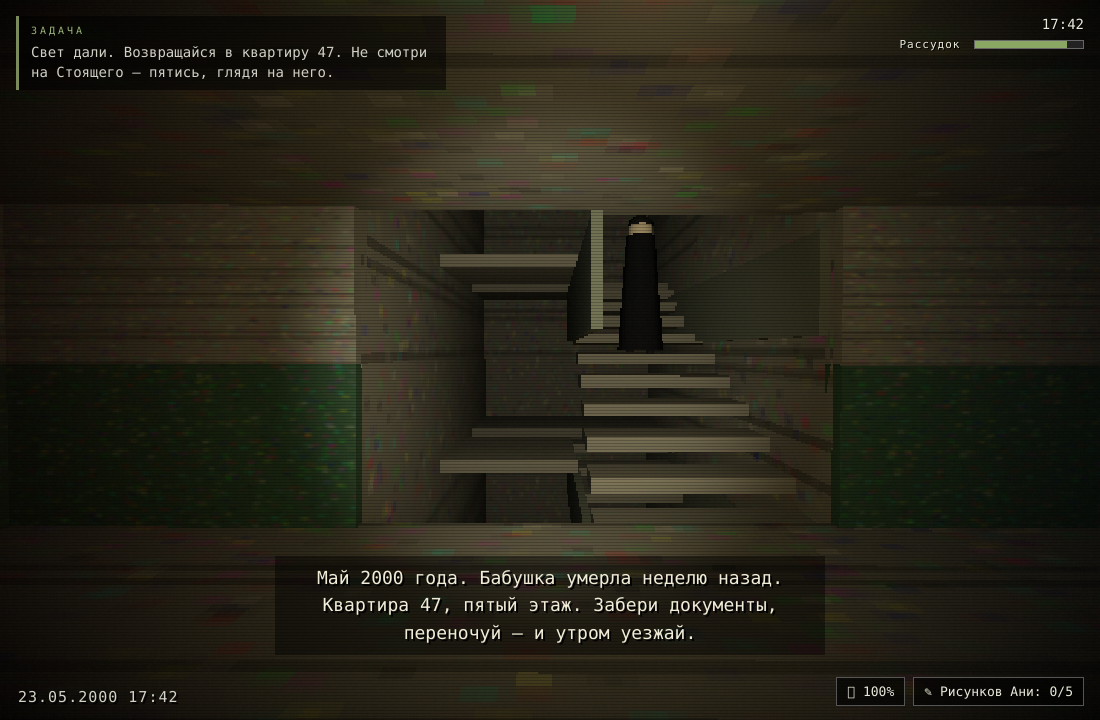
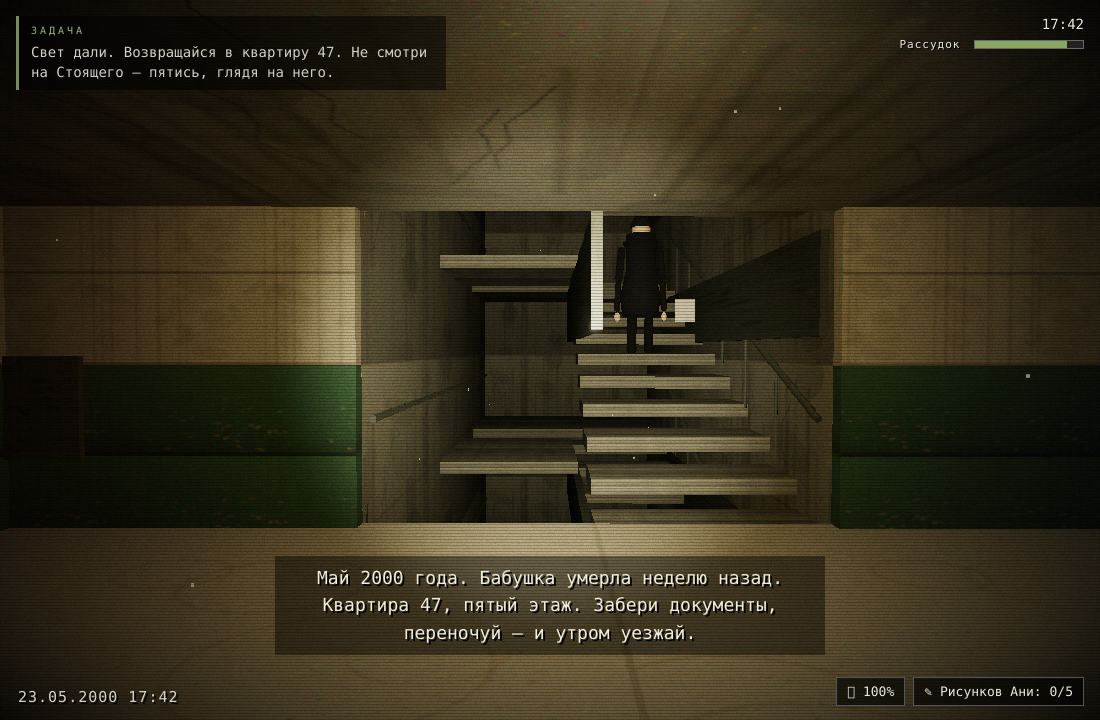
Графика 2.0: тени, пост-обработка, PBR-текстуры, детальные модели мебели и сущностей

diff --git a/src/main.js b/src/main.js
@@ -1,4 +1,9 @@
 import * as THREE from 'three';
+import { EffectComposer } from 'three/addons/postprocessing/EffectComposer.js';
+import { RenderPass } from 'three/addons/postprocessing/RenderPass.js';
+import { UnrealBloomPass } from 'three/addons/postprocessing/UnrealBloomPass.js';
+import { FilmPass } from 'three/addons/postprocessing/FilmPass.js';
+import { OutputPass } from 'three/addons/postprocessing/OutputPass.js';
 
 // ================= DOM =================
 const $=id=>document.getElementById(id);
@@ -30,40 +35,110 @@ $('note-close').onclick=()=>{ $('note-modal').classList.add('hidden'); canvas.re
 // ================= ТЕКСТУРЫ (canvas, стиль PS1) =================
 function makeTex(size,fn,rep=1){ const c=document.createElement('canvas'); c.width=c.height=size; fn(c.getContext('2d'),size); const t=new THREE.CanvasTexture(c); t.wrapS=t.wrapT=THREE.RepeatWrapping; t.repeat.set(rep,rep); t.magFilter=THREE.NearestFilter; t.colorSpace=THREE.SRGBColorSpace; return t; }
 function noise(ctx,s,n=900,a=0.16){ for(let i=0;i<n;i++){ ctx.fillStyle=`rgba(${Math.random()>0.5?255:0},${Math.random()>0.5?255:0},${Math.random()>0.5?230:10},${Math.random()*a})`; ctx.fillRect(Math.random()*s,Math.random()*s,2,2);} }
-const texConcrete=makeTex(128,(x,s)=>{ x.fillStyle='#6d6d66'; x.fillRect(0,0,s,s); noise(x,s,1400,.2); x.fillStyle='rgba(0,0,0,.25)'; for(let i=0;i<8;i++)x.fillRect(0,Math.random()*s,s,2); });
-const texGreen=makeTex(128,(x,s)=>{ x.fillStyle='#2e4a38'; x.fillRect(0,0,s,s); noise(x,s,1200,.22); x.fillStyle='rgba(0,0,0,.3)'; x.fillRect(0,s-8,s,8); });
-const texWallpaper=makeTex(128,(x,s)=>{ x.fillStyle='#8a7663'; x.fillRect(0,0,s,s); x.fillStyle='rgba(140,60,60,.35)'; for(let i=0;i<s;i+=16)for(let j=0;j<s;j+=16){ x.beginPath(); x.arc(i+8,j+8,3,0,7); x.fill(); } noise(x,s,500,.12); });
-const texCarpet=makeTex(128,(x,s)=>{ x.fillStyle='#5e1f1c'; x.fillRect(0,0,s,s); x.strokeStyle='#a8834a'; x.lineWidth=3; x.strokeRect(10,10,s-20,s-20); x.strokeStyle='rgba(200,150,80,.5)'; x.beginPath(); x.arc(s/2,s/2,24,0,7); x.stroke(); noise(x,s,600,.15); },3);
-const texFloor=makeTex(128,(x,s)=>{ x.fillStyle='#4a3826'; x.fillRect(0,0,s,s); x.fillStyle='rgba(0,0,0,.35)'; for(let i=0;i<s;i+=32)x.fillRect(0,i,s,2); noise(x,s,700,.15); },3);
-const texDoor=makeTex(128,(x,s)=>{ x.fillStyle='#4c3421'; x.fillRect(0,0,s,s); x.strokeStyle='rgba(0,0,0,.5)'; x.lineWidth=4; x.strokeRect(14,14,s-28,s-28); x.strokeRect(24,24,s-48,s-48); noise(x,s,500,.15); });
+const texConcrete=makeTex(512,(x,s)=>{ const g=x.createLinearGradient(0,0,0,s); g.addColorStop(0,'#7a7a72'); g.addColorStop(1,'#5d5d57'); x.fillStyle=g; x.fillRect(0,0,s,s); noise(x,s,9000,.14);
+  // потёки и пятна сырости
+  for(let i=0;i<26;i++){ const px=Math.random()*s; const gr=x.createLinearGradient(px,0,px+14,0); gr.addColorStop(0,'rgba(40,40,36,0)'); gr.addColorStop(.5,`rgba(40,40,36,${.08+Math.random()*.16})`); gr.addColorStop(1,'rgba(40,40,36,0)'); x.fillStyle=gr; x.fillRect(px,Math.random()*s*.3,14,s*(.4+Math.random()*.6)); }
+  for(let i=0;i<14;i++){ x.fillStyle=`rgba(30,32,28,${.05+Math.random()*.1})`; x.beginPath(); x.ellipse(Math.random()*s,Math.random()*s,20+Math.random()*60,10+Math.random()*40,Math.random()*3,0,7); x.fill(); }
+  // трещины
+  x.strokeStyle='rgba(25,25,22,.5)'; x.lineWidth=1.4; for(let i=0;i<7;i++){ x.beginPath(); let px=Math.random()*s,py=Math.random()*s*.5; x.moveTo(px,py); for(let j=0;j<6;j++){ px+=(Math.random()-.5)*36; py+=18+Math.random()*26; x.lineTo(px,py);} x.stroke(); }
+  // швы опалубки
+  x.fillStyle='rgba(0,0,0,.18)'; x.fillRect(0,s*.48,s,3); x.fillRect(s*.5,0,3,s*.48); },2);
+const texPlaster=makeTex(512,(x,s)=>{ x.fillStyle='#8f8a7c'; x.fillRect(0,0,s,s); noise(x,s,8000,.12);
+  for(let i=0;i<20;i++){ x.fillStyle=`rgba(96,90,74,${.06+Math.random()*.12})`; x.beginPath(); x.ellipse(Math.random()*s,Math.random()*s,16+Math.random()*70,10+Math.random()*44,Math.random()*3,0,7); x.fill(); }
+  for(let i=0;i<10;i++){ const px=Math.random()*s; x.fillStyle=`rgba(70,66,56,${.1+Math.random()*.12})`; x.fillRect(px,0,3+Math.random()*6,s); }
+  x.fillStyle='rgba(52,50,44,.35)'; x.fillRect(0,s-16,s,16); },2);
+const texGreen=makeTex(512,(x,s)=>{ const g=x.createLinearGradient(0,0,0,s); g.addColorStop(0,'#37543f'); g.addColorStop(.8,'#2c4634'); g.addColorStop(1,'#223829'); x.fillStyle=g; x.fillRect(0,0,s,s);
+  // мазки кисти
+  for(let i=0;i<380;i++){ x.fillStyle=`rgba(${140+Math.random()*60|0},${170+Math.random()*50|0},140,${Math.random()*.05})`; x.fillRect(Math.random()*s,Math.random()*s,2,14+Math.random()*36); }
+  noise(x,s,7000,.16);
+  // облупившаяся краска — под ней штукатурка
+  for(let i=0;i<34;i++){ const px=Math.random()*s,py=s*.45+Math.random()*s*.55; x.fillStyle='#655e50'; x.beginPath(); x.ellipse(px,py,3+Math.random()*9,2+Math.random()*5,Math.random()*3,0,7); x.fill(); x.fillStyle='rgba(52,50,44,.65)'; x.beginPath(); x.ellipse(px,py,1.5+Math.random()*4,1+Math.random()*3,0,0,7); x.fill(); }
+  // царапины и надписи-царапины
+  x.strokeStyle='rgba(200,205,190,.28)'; x.lineWidth=1; for(let i=0;i<16;i++){ x.beginPath(); const px=Math.random()*s,py=Math.random()*s; x.moveTo(px,py); x.lineTo(px+20+Math.random()*60,py+(Math.random()-.5)*14); x.stroke(); }
+  x.fillStyle='rgba(20,26,20,.5)'; x.fillRect(0,s-22,s,22); },2);
+const texWallpaper=makeTex(512,(x,s)=>{ x.fillStyle='#977f66'; x.fillRect(0,0,s,s);
+  x.fillStyle='rgba(255,240,210,.06)'; for(let i=0;i<s;i+=64)x.fillRect(i,0,30,s); // полосы
+  // цветочный мотив
+  for(let i=0;i<s;i+=64)for(let j=0;j<s;j+=64){ const cx=i+32,cy=j+32; x.fillStyle='rgba(148,74,64,.5)';
+    for(let k=0;k<6;k++){ const a=k/6*Math.PI*2; x.beginPath(); x.ellipse(cx+Math.cos(a)*9,cy+Math.sin(a)*9,7,4,a,0,7); x.fill(); }
+    x.fillStyle='rgba(220,180,90,.55)'; x.beginPath(); x.arc(cx,cy,4,0,7); x.fill();
+    x.strokeStyle='rgba(90,100,60,.4)'; x.lineWidth=2; x.beginPath(); x.moveTo(cx,cy+14); x.quadraticCurveTo(cx+4,cy+24,cx,cy+32); x.stroke(); }
+  noise(x,s,6000,.1);
+  for(let i=0;i<8;i++){ x.fillStyle=`rgba(92,74,50,${.08+Math.random()*.1})`; x.beginPath(); x.ellipse(Math.random()*s,s-8,30+Math.random()*70,10+Math.random()*22,0,0,7); x.fill(); } },2);
+const texCarpet=makeTex(512,(x,s)=>{ x.fillStyle='#5d1f1c'; x.fillRect(0,0,s,s); noise(x,s,9000,.14);
+  x.strokeStyle='#b08d4f'; x.lineWidth=6; x.strokeRect(18,18,s-36,s-36); x.lineWidth=2; x.strokeRect(38,38,s-76,s-76);
+  x.strokeStyle='rgba(200,160,90,.6)';
+  const dia=(cx,cy,r)=>{ x.beginPath(); x.moveTo(cx,cy-r); x.lineTo(cx+r,cy); x.lineTo(cx,cy+r); x.lineTo(cx-r,cy); x.closePath(); x.stroke(); };
+  dia(s/2,s/2,110); dia(s/2,s/2,70); dia(s/2,s/2,30);
+  for(const [cx,cy] of [[92,92],[s-92,92],[92,s-92],[s-92,s-92]]) dia(cx,cy,42);
+  x.fillStyle='rgba(216,170,90,.5)'; x.beginPath(); x.arc(s/2,s/2,10,0,7); x.fill(); },2);
+const texFloor=makeTex(512,(x,s)=>{ x.fillStyle='#54402a'; x.fillRect(0,0,s,s);
+  const rows=6, rh=s/rows;
+  for(let r=0;r<rows;r++){ const off=(r%2)*s/2;
+    for(let px=-1;px<2;px++){ const x0=px*s/2+off; const tone=8+Math.random()*14; x.fillStyle=`rgb(${86+tone},${62+tone*.7},${38+tone*.5})`; x.fillRect(x0+2,r*rh+2,s/2-4,rh-4);
+      x.strokeStyle='rgba(40,26,14,.35)'; x.lineWidth=1; for(let gLine=0;gLine<9;gLine++){ x.beginPath(); const gy=r*rh+6+gLine*(rh-10)/9+Math.random()*3; x.moveTo(x0+4,gy); x.bezierCurveTo(x0+s/6,gy+3,x0+s/3,gy-3,x0+s/2-4,gy+2); x.stroke(); } } }
+  x.fillStyle='rgba(20,12,6,.55)'; for(let r=0;r<=rows;r++)x.fillRect(0,r*rh-1,s,2);
+  noise(x,s,5000,.1); },3);
+const texDoor=makeTex(512,(x,s)=>{ const g=x.createLinearGradient(0,0,s,0); g.addColorStop(0,'#5a3d24'); g.addColorStop(.5,'#6b4a2c'); g.addColorStop(1,'#4e351e'); x.fillStyle=g; x.fillRect(0,0,s,s);
+  x.strokeStyle='rgba(30,18,8,.4)'; for(let i=0;i<60;i++){ x.beginPath(); const px=Math.random()*s; x.moveTo(px,0); x.bezierCurveTo(px+6,s*.3,px-6,s*.6,px+3,s); x.stroke(); }
+  const panel=(px,py,pw,ph)=>{ x.strokeStyle='rgba(24,14,6,.75)'; x.lineWidth=7; x.strokeRect(px,py,pw,ph); x.strokeStyle='rgba(230,190,140,.16)'; x.lineWidth=2; x.strokeRect(px+5,py+5,pw-10,ph-10); };
+  panel(s*.18,s*.08,s*.64,s*.36); panel(s*.18,s*.56,s*.64,s*.36); noise(x,s,5000,.12); });
+const texTile=makeTex(512,(x,s)=>{ const n=6,ts=s/n;
+  for(let i=0;i<n;i++)for(let j=0;j<n;j++){ const alt=(i+j)%2; x.fillStyle=alt?'#b9c4bd':'#a7b5ad'; x.fillRect(i*ts+2,j*ts+2,ts-4,ts-4);
+    const gr=x.createLinearGradient(i*ts,j*ts,i*ts+ts,j*ts+ts); gr.addColorStop(0,'rgba(255,255,255,.16)'); gr.addColorStop(1,'rgba(0,0,0,.12)'); x.fillStyle=gr; x.fillRect(i*ts+2,j*ts+2,ts-4,ts-4); }
+  x.fillStyle='#5e6660'; for(let i=0;i<=n;i++){ x.fillRect(i*ts-2,0,4,s); x.fillRect(0,i*ts-2,s,4); }
+  x.strokeStyle='rgba(60,64,60,.5)'; for(let i=0;i<5;i++){ x.beginPath(); let px=Math.random()*s,py=0; x.moveTo(px,py); while(py<s){ px+=(Math.random()-.5)*20; py+=30; x.lineTo(px,py);} x.stroke(); }
+  noise(x,s,6000,.12); },2);
+const texCeiling=makeTex(512,(x,s)=>{ x.fillStyle='#a9a498'; x.fillRect(0,0,s,s); noise(x,s,8000,.13);
+  for(let i=0;i<7;i++){ x.strokeStyle=`rgba(120,104,70,${.12+Math.random()*.15})`; x.lineWidth=2+Math.random()*3; x.beginPath(); x.arc(Math.random()*s,Math.random()*s,20+Math.random()*60,0,7); x.stroke(); }
+  x.fillStyle='rgba(90,86,76,.25)'; x.fillRect(0,0,s,4); x.fillRect(0,0,4,s); },2);
+const texFabric=makeTex(256,(x,s)=>{ x.fillStyle='#5d6650'; x.fillRect(0,0,s,s); for(let i=0;i<s;i+=3){ x.fillStyle=`rgba(0,0,0,${.05+ (i%6===0?.06:0)})`; x.fillRect(0,i,s,1); x.fillRect(i,0,1,s);} noise(x,s,5000,.12); },3);
+const texMetal=makeTex(256,(x,s)=>{ x.fillStyle='#6a7068'; x.fillRect(0,0,s,s); for(let i=0;i<160;i++){ x.fillStyle=`rgba(255,255,255,${Math.random()*.07})`; x.fillRect(0,Math.random()*s,s,1);} for(let i=0;i<26;i++){ x.fillStyle=`rgba(30,30,28,${.06+Math.random()*.14})`; x.beginPath(); x.ellipse(Math.random()*s,Math.random()*s,4+Math.random()*20,2+Math.random()*8,0,0,7); x.fill(); } noise(x,s,5000,.14); },1);
+const texSky=()=>textTex(512,256,(x,w,h)=>{ const g=x.createLinearGradient(0,0,0,h); g.addColorStop(0,'#0a1220'); g.addColorStop(1,'#1a2434'); x.fillStyle=g; x.fillRect(0,0,w,h);
+  // дом напротив с горящими окнами
+  x.fillStyle='#05070a'; x.fillRect(30,50,452,206);
+  for(let r=0;r<6;r++)for(let c=0;c<11;c++){ const lit=Math.random()<.28; x.fillStyle=lit?'rgba(255,186,80,.9)':'rgba(40,52,70,.85)'; x.fillRect(48+c*40,66+r*30,20,16); }
+  x.fillStyle='rgba(230,235,255,.9)'; x.beginPath(); x.arc(452,34,13,0,7); x.fill(); x.fillStyle='#0a1220'; x.beginPath(); x.arc(446,30,11,0,7); x.fill(); });
+
 function textTex(w,h,draw){ const c=document.createElement('canvas'); c.width=w; c.height=h; draw(c.getContext('2d'),w,h); const t=new THREE.CanvasTexture(c); t.magFilter=THREE.NearestFilter; t.colorSpace=THREE.SRGBColorSpace; return t; }
 function labelPlane(text,w,h,fg='#ddd',bg='rgba(20,20,20,0.85)',font=42){ const t=textTex(256,128,(x)=>{ x.fillStyle=bg; x.fillRect(0,0,256,128); x.fillStyle=fg; x.font=`bold ${font}px Courier New`; x.textAlign='center'; x.textBaseline='middle'; x.fillText(text,128,66); }); return new THREE.Mesh(new THREE.PlaneGeometry(w,h),new THREE.MeshBasicMaterial({map:t,transparent:true})); }
 
 // ================= СЦЕНА =================
 const scene=new THREE.Scene(); scene.background=new THREE.Color(0x050505); scene.fog=new THREE.FogExp2(0x030303,0.055);
 const camera=new THREE.PerspectiveCamera(72,innerWidth/innerHeight,0.05,90);
-const renderer=new THREE.WebGLRenderer({canvas,antialias:false,powerPreference:'high-performance'});
-renderer.setSize(720,405,false); renderer.setPixelRatio(1); renderer.shadowMap.enabled=false;
+const renderer=new THREE.WebGLRenderer({canvas,antialias:true,powerPreference:'high-performance'});
+renderer.setSize(1280,720,false); renderer.setPixelRatio(1);
+renderer.shadowMap.enabled=true; renderer.shadowMap.type=THREE.PCFSoftShadowMap;
+renderer.toneMapping=THREE.ACESFilmicToneMapping; renderer.toneMappingExposure=1.15;
 const hemi=new THREE.HemisphereLight(0xbfc8b0,0x1a1a14,0.25); scene.add(hemi);
+const composer=new EffectComposer(renderer);
+composer.addPass(new RenderPass(scene,camera));
+const bloom=new UnrealBloomPass(new THREE.Vector2(1280,720),0.32,0.55,0.78); composer.addPass(bloom);
+const film=new FilmPass(0.32,0.42,648,false); composer.addPass(film);
+composer.addPass(new OutputPass());
 const playerLight=new THREE.PointLight(0xffe9b0,0,7); scene.add(playerLight);
-const flash=new THREE.SpotLight(0xfff2cc,0,18,0.52,0.55,1.2); scene.add(flash); scene.add(flash.target);
+const flash=new THREE.SpotLight(0xfff2cc,0,18,0.52,0.55,1.2); flash.castShadow=true; flash.shadow.mapSize.set(1024,1024); flash.shadow.bias=-0.004; flash.shadow.camera.near=0.1; flash.shadow.camera.far=20; scene.add(flash); scene.add(flash.target);
 
+const std=(map,opt={})=>new THREE.MeshStandardMaterial(Object.assign({map,bumpMap:map,bumpScale:0.12,roughness:0.94,metalness:0.0},opt));
 const M={
- concrete:new THREE.MeshLambertMaterial({map:texConcrete}), green:new THREE.MeshLambertMaterial({map:texGreen}),
- wallpaper:new THREE.MeshLambertMaterial({map:texWallpaper}), carpet:new THREE.MeshLambertMaterial({map:texCarpet}),
- floor:new THREE.MeshLambertMaterial({map:texFloor}), door:new THREE.MeshLambertMaterial({map:texDoor}),
- dark:new THREE.MeshLambertMaterial({color:0x17181a}), black:new THREE.MeshBasicMaterial({color:0x020202}),
- metal:new THREE.MeshLambertMaterial({color:0x596058}), pale:new THREE.MeshLambertMaterial({color:0xbfb49e}),
- dress:new THREE.MeshLambertMaterial({color:0x3d3230}), coat:new THREE.MeshLambertMaterial({color:0x111216}),
- paper:new THREE.MeshBasicMaterial({color:0xcfc7a8}), red:new THREE.MeshLambertMaterial({color:0x6e1f1a}),
+ concrete:std(texConcrete), plaster:std(texPlaster), green:std(texGreen),
+ wallpaper:std(texWallpaper), carpet:std(texCarpet,{bumpScale:0.08}),
+ floor:std(texFloor,{roughness:0.7,bumpScale:0.08}), door:std(texDoor,{roughness:0.72,bumpScale:0.08}),
+ tile:std(texTile,{roughness:0.35,bumpScale:0.05}), ceiling:std(texCeiling),
+ fabric:std(texFabric,{roughness:1,bumpScale:0.1}),
+ dark:new THREE.MeshStandardMaterial({color:0x1a1c1f,roughness:0.6,metalness:0.25}), black:new THREE.MeshBasicMaterial({color:0x020202}),
+ metal:std(texMetal,{roughness:0.45,metalness:0.65,bumpScale:0.05}), pale:new THREE.MeshStandardMaterial({color:0xcbb99e,roughness:0.65}),
+ dress:new THREE.MeshStandardMaterial({color:0x41322f,roughness:0.95}), coat:new THREE.MeshStandardMaterial({color:0x141519,roughness:0.9}),
+ paper:new THREE.MeshBasicMaterial({color:0xcfc7a8}), red:new THREE.MeshStandardMaterial({color:0x77231d,roughness:0.55}),
  tv:new THREE.MeshBasicMaterial({color:0x888888}), lampOn:new THREE.MeshBasicMaterial({color:0xffe9a8}), lampOff:new THREE.MeshBasicMaterial({color:0x333322}),
+ glass:new THREE.MeshPhysicalMaterial({color:0xdfe8e2,roughness:0.08,metalness:0,transparent:true,opacity:0.32}),
 };
 const world=new THREE.Group(); scene.add(world);
 const surfaces=[], colliders=[], interactables=[], lamps=[];
 function addSurface(x1,x2,z1,z2,y){ surfaces.push({x1,x2,z1,z2,y}); }
 function groundYAt(x,z,refY){ let best=null,bd=1e9; for(const s of surfaces){ if(x>=s.x1&&x<=s.x2&&z>=s.z1&&z<=s.z2){ const y=typeof s.y==='function'?s.y(x,z):s.y; const d=Math.abs(y-refY); if(d<bd){bd=d;best=y;} } } return bd<2.1?best:null; }
 function addCollider(x1,x2,z1,z2,y1,y2){ const c={x1,x2,z1,z2,y1,y2,enabled:true}; colliders.push(c); return c; }
-function box(w,h,d,mat,x,y,z,parent=world){ const m=new THREE.Mesh(new THREE.BoxGeometry(w,h,d),mat); m.position.set(x,y,z); parent.add(m); return m; }
+function box(w,h,d,mat,x,y,z,parent=world){ const m=new THREE.Mesh(new THREE.BoxGeometry(w,h,d),mat); m.position.set(x,y,z); m.castShadow=true; m.receiveShadow=true; parent.add(m); return m; }
 function wallBox(cx,cy,cz,w,h,d,mat=M.concrete){ const m=box(w,h,d,mat,cx,cy,cz); addCollider(cx-w/2,cx+w/2,cz-d/2,cz+d/2,cy-h/2,cy+h/2); return m; }
 function addInteract(obj){ interactables.push(obj); }
 
@@ -83,10 +158,10 @@ function buildLanding(fi){
   const y=fi*FH;
   // пол и потолок
   box(10,0.2,6,M.concrete,0,y-0.1,0); addSurface(-5,5,-3,3,y);
-  box(10,0.2,6,M.concrete,0,y+3.05,0);
+  box(10,0.2,6,M.ceiling,0,y+3.05,0);
   // нижняя зелёная / верхняя серая — двумя ящиками
   const isTop=fi===4,isGround=fi===0,isBase=fi===-1;
-  function wallSeg(cx,cz,w,d){ wallBox(cx,y+0.75,cz,w,1.5,d,M.green); wallBox(cx,y+2.25,cz,w,1.5,d,M.concrete); }
+  function wallSeg(cx,cz,w,d){ wallBox(cx,y+0.75,cz,w,1.5,d,M.green); wallBox(cx,y+2.25,cz,w,1.5,d,M.plaster); }
   // северная стена с 4 дверями
   wallSeg(0,-3,10,0.25);
   const nums={ '-1':['Б','Б','Б','Б'],0:[37,38,39,40],1:[41,42,43,44],2:[49,50,51,52],3:[53,54,55,56],4:[45,46,48,'·']}[fi]||[1,2,3,4];
@@ -143,7 +218,7 @@ const sixthGroup=new THREE.Group(); world.add(sixthGroup);
 // ---------- квартира 47 (5 этаж, восток) ----------
 const APT_Y=12;
 addSurface(5,19,-7,7,APT_Y);
-box(14,0.2,14.5,M.floor,12,APT_Y-0.1,0); box(14,0.2,14.5,M.concrete,12,APT_Y+3.05,0);
+box(14,0.2,14.5,M.floor,12,APT_Y-0.1,0); box(14,0.2,14.5,M.ceiling,12,APT_Y+3.05,0);
 // периметр
 wallBox(12,APT_Y+1.5,-7.12,14.5,3,0.25,M.wallpaper); wallBox(12,APT_Y+1.5,7.12,14.5,3,0.25,M.wallpaper); wallBox(19.12,APT_Y+1.5,0,0.25,3,14.5,M.wallpaper);
 // перегородки: прихожая x5-9; кухня z<-2; ванная z>2; гостиная/спальня x>10
@@ -196,19 +271,158 @@ drawingPos.forEach((p,i)=>{ const t=textTex(128,128,(x)=>{ x.fillStyle='#d8d2b8'
   const m=new THREE.Mesh(new THREE.PlaneGeometry(0.55,0.55),new THREE.MeshBasicMaterial({map:t})); m.position.set(p[0],p[1],p[2]); if(p[3])m.rotation.y=-Math.PI/2; world.add(m); drawingMeshes.push(m); });
 const rulesPlane=labelPlane('ПРАВИЛА ДОМА',1.0,0.55,'#2a2a22','rgba(215,208,180,.95)',36); rulesPlane.position.set(4.86,13.8,1.7); rulesPlane.rotation.y=-Math.PI/2; world.add(rulesPlane);
 
+
+// ================= ДЕТАЛЬНЫЕ МОДЕЛИ (мебель, мелочи, пыль) =================
+let dustPoints=null;
+function cyl(r1,r2,h,mat,x,y,z,parent=world,seg=14){ const m=new THREE.Mesh(new THREE.CylinderGeometry(r1,r2,h,seg),mat); m.position.set(x,y,z); m.castShadow=true; m.receiveShadow=true; parent.add(m); return m; }
+function sph(r,mat,x,y,z,parent=world){ const m=new THREE.Mesh(new THREE.SphereGeometry(r,18,14),mat); m.position.set(x,y,z); m.castShadow=true; m.receiveShadow=true; parent.add(m); return m; }
+function tube(a,b,r,mat,parent=world){ const A=new THREE.Vector3(...a),B=new THREE.Vector3(...b); const d=B.clone().sub(A); const m=new THREE.Mesh(new THREE.CylinderGeometry(r,r,d.length(),10),mat); m.position.copy(A).addScaledVector(d,0.5); m.quaternion.setFromUnitVectors(new THREE.Vector3(0,1,0),d.normalize()); m.castShadow=true; parent.add(m); return m; }
+function chair(x,y,z,ry,parent=world){ const g=new THREE.Group(); g.position.set(x,y,z); g.rotation.y=ry; parent.add(g); const wood=M.door;
+  for(const [lx,lz] of [[-.19,-.19],[.19,-.19],[-.19,.19],[.19,.19]]) cyl(0.022,0.018,0.45,wood,lx,0.225,lz,g,8);
+  box(0.46,0.04,0.46,wood,0,0.46,0,g);
+  for(const lx of [-.19,.19]) cyl(0.02,0.02,0.55,wood,lx,0.73,0.21,g,8);
+  box(0.44,0.09,0.035,wood,0,0.97,0.21,g); box(0.44,0.07,0.03,wood,0,0.78,0.21,g); return g; }
+function radiator(x,y,z,ry=0,parent=world){ const g=new THREE.Group(); g.position.set(x,y,z); g.rotation.y=ry; parent.add(g); const wm=new THREE.MeshStandardMaterial({color:0xb9bcb4,roughness:0.5,metalness:0.35});
+  for(let i=0;i<9;i++) box(0.09,0.52,0.13,wm,-0.4+i*0.1,0.32,0,g);
+  cyl(0.025,0.025,0.9,M.metal,0,0.6,0,g,8).rotation.z=Math.PI/2; tube([0.42,0.1,0],[0.42,-0.05,0.16],0.022,M.metal,g); return g; }
+(function buildDetails(){
+  const Y=APT_Y;
+  // плинтусы в квартире
+  const sk=new THREE.MeshStandardMaterial({color:0x2e2620,roughness:0.8});
+  box(9,0.1,0.03,sk,14.5,Y+0.05,-6.98); box(9,0.1,0.03,sk,14.5,Y+0.05,6.98); box(0.03,0.1,14,sk,18.98,Y+0.05,0); box(4.8,0.1,0.03,sk,7.5,Y+0.05,1.98);
+  // диван: подушки и подлокотники поверх базы
+  const sofa=new THREE.Group(); sofa.position.set(12.2,Y,-5.5); world.add(sofa);
+  box(1.05,0.18,0.8,M.fabric,0.55,0.78,0,sofa); box(1.05,0.18,0.8,M.fabric,-0.55,0.78,0,sofa);
+  const b1=box(1.05,0.5,0.16,M.fabric,0.55,1.05,0.38,sofa); b1.rotation.x=-0.16; const b2=box(1.05,0.5,0.16,M.fabric,-0.55,1.05,0.38,sofa); b2.rotation.x=-0.16;
+  box(0.22,0.34,0.9,M.fabric,1.2,0.85,0,sofa); box(0.22,0.34,0.9,M.fabric,-1.2,0.85,0,sofa);
+  for(const [lx,lz] of [[-1.05,-.35],[1.05,-.35],[-1.05,.35],[1.05,.35]]) cyl(0.03,0.02,0.12,M.door,lx,0.06,lz,sofa,8);
+  // телевизор: антенна и ручки
+  tube([16.8,Y+1.3,-5.8],[16.2,Y+2.2,-6.1],0.012,M.metal); tube([16.8,Y+1.3,-5.8],[17.5,Y+2.15,-6.0],0.012,M.metal);
+  cyl(0.05,0.05,0.05,M.dark,17.38,Y+1.05,-5.55).rotation.z=Math.PI/2; cyl(0.04,0.04,0.05,M.dark,17.38,Y+0.85,-5.55).rotation.z=Math.PI/2;
+  // стул перед телевизором (как на VHS-записях)
+  chair(15.4,Y,-3.4,Math.PI);
+  // сервант с книгами и хрусталём
+  const sv=new THREE.Group(); sv.position.set(18.75,Y,-1.5); sv.rotation.y=-Math.PI/2; world.add(sv);
+  box(2.2,2.0,0.42,M.door,0,1.0,0,sv); box(2.0,0.02,0.36,M.floor,0,0.65,0.02,sv); box(2.0,0.02,0.36,M.floor,0,1.3,0.02,sv);
+  const bookCols=[0x7a2e22,0x22406e,0x2e5d33,0x77622a,0x4a2440,0x885838,0x33555e];
+  for(let sh=0;sh<3;sh++){ let bx=-0.95; while(bx<0.55){ const bw=0.045+Math.random()*0.05,bh=0.24+Math.random()*0.14; const bm=new THREE.MeshStandardMaterial({color:bookCols[Math.floor(Math.random()*bookCols.length)],roughness:0.85}); const bk=box(bw,bh,0.2,bm,bx+bw/2,0.18+sh*0.65+bh/2-0.06,0.03,sv); if(Math.random()<.18)bk.rotation.z=0.12; bx+=bw+0.008; }
+    for(let gi=0;gi<3;gi++){ const gl=cyl(0.035,0.05,0.14,M.glass,0.68+gi*0.14,0.25+sh*0.65,0.03,sv,10); } }
+  box(0.34,0.5,0.02,M.glass,-0.2,1.62,0.22,sv);
+  // окна: рамы, занавески, радиаторы, дом напротив
+  windowGlow.material=new THREE.MeshBasicMaterial({map:texSky()}); windowGlow.scale.set(1.25,1.15,1);
+  const wf=new THREE.MeshStandardMaterial({color:0x9aa094,roughness:0.6});
+  box(2.9,0.08,0.08,wf,14.5,Y+2.62,6.96); box(2.9,0.08,0.08,wf,14.5,Y+0.78,6.96); box(0.08,1.9,0.08,wf,13.05,Y+1.7,6.96); box(0.08,1.9,0.08,wf,15.95,Y+1.7,6.96); box(0.06,1.84,0.06,wf,14.5,Y+1.7,6.96); box(2.84,0.06,0.06,wf,14.5,Y+1.7,6.96);
+  box(0.5,1.95,0.06,M.fabric,13.25,Y+1.68,6.9); box(0.5,1.95,0.06,M.fabric,15.75,Y+1.68,6.9); box(3.1,0.07,0.07,M.door,14.5,Y+2.68,6.9);
+  radiator(14.5,Y,6.72); radiator(16.5,Y,6.72);
+  // спальня: подушка, одеяло, тумбочка с лампой
+  const pil=sph(0.32,new THREE.MeshStandardMaterial({color:0xcfc8b4,roughness:1}),17.4,Y+0.62,4.6); pil.scale.set(1.15,0.42,0.75);
+  box(1.5,0.14,1.42,new THREE.MeshStandardMaterial({color:0x5e3038,roughness:1}),16.1,Y+0.6,4.6);
+  box(0.55,0.5,0.4,M.door,18.3,Y+0.25,3.2); cyl(0.05,0.07,0.1,M.metal,18.3,Y+0.55,3.2,world,10);
+  const shade=new THREE.Mesh(new THREE.CylinderGeometry(0.09,0.14,0.16,12,1,true),new THREE.MeshBasicMaterial({color:0xffd9a0})); shade.position.set(18.3,Y+0.72,3.2); world.add(shade);
+  // кухня: шкафчики, плита с конфорками и чайником, стол и стулья
+  for(let i=0;i<4;i++){ box(1.05,0.85,0.55,M.door,5.65+i*1.12,Y+0.43,-6.62); cyl(0.015,0.015,0.12,M.metal,5.65+i*1.12,Y+0.62,-6.32,world,8); }
+  for(let i=0;i<3;i++) box(1.05,0.7,0.4,M.door,5.65+i*1.12,Y+2.15,-6.78);
+  for(const [bx,bz,br] of [[6.9,-5.4,.14],[7.5,-5.4,.11],[6.9,-4.95,.11],[7.5,-4.95,.14]]){ const bn=cyl(br,br,0.025,M.dark,bx,Y+0.79,bz,world,16); }
+  box(0.7,0.4,0.03,M.dark,7.2,Y+0.35,-4.88);
+  const kettle=sph(0.14,M.metal,7.45,Y+0.9,-5.25); kettle.scale.y=0.85; cyl(0.02,0.035,0.1,M.metal,7.58,Y+0.95,-5.25,world,8).rotation.z=-0.7;
+  const kt=new THREE.Group(); kt.position.set(8.8,Y,-4.2); world.add(kt); cyl(0.55,0.55,0.04,M.door,0,0.72,0,kt,20); cyl(0.05,0.07,0.72,M.door,0,0.36,0,kt,10);
+  chair(8.1,Y,-3.5,Math.PI/2); chair(9.5,Y,-4.9,-Math.PI/2+0.4);
+  cyl(0.02,0.02,0.5,M.metal,6.55,Y+0.95,-6.5,world,8);
+  // ванная: плитка, раковина, зеркало
+  box(4.9,1.7,0.04,M.tile,7.5,Y+0.85,6.96); box(0.04,1.7,4.9,M.tile,9.96,Y+0.85,4.5);
+  cyl(0.09,0.12,0.75,new THREE.MeshStandardMaterial({color:0xd8dcd4,roughness:0.3}),6.2,Y+0.38,6.3,world,12);
+  cyl(0.3,0.24,0.14,new THREE.MeshStandardMaterial({color:0xe4e8e0,roughness:0.25}),6.2,Y+0.8,6.3,world,16);
+  box(0.5,0.65,0.03,M.metal,6.2,Y+1.55,6.92);
+  // прихожая: вешалка с пальто и зеркало
+  box(1.3,0.5,0.05,M.door,7.6,Y+1.78,1.96);
+  for(let i=0;i<4;i++) sph(0.035,M.metal,7.15+i*0.3,Y+1.62,1.9);
+  const coatMesh=new THREE.Mesh(new THREE.CylinderGeometry(0.13,0.3,0.95,10),M.coat); coatMesh.position.set(7.75,Y+1.05,1.88); coatMesh.castShadow=true; world.add(coatMesh);
+  box(0.6,0.9,0.03,M.metal,9.85,Y+1.5,-1.2);
+  // дисковый телефон: диск и трубка
+  cyl(0.13,0.15,0.04,new THREE.MeshStandardMaterial({color:0xd8cfb8,roughness:0.4}),11.2,Y+1.06,-6.4,world,18).rotation.x=0.5;
+  const hs=new THREE.Group(); hs.position.set(11.2,Y+1.22,-6.4); hs.rotation.z=0.1; world.add(hs);
+  box(0.42,0.05,0.09,M.red,0,0,0,hs); sph(0.055,M.red,-0.2,0,0,hs); sph(0.055,M.red,0.2,0,0,hs);
+  // лестничные клетки: трубы, мусоропровод, плафоны, объявления
+  for(let fi=-1;fi<5;fi++){ const y=fi*3;
+    cyl(0.06,0.06,3,M.metal,-4.75,y+1.5,2.72,world,10); cyl(0.035,0.035,3,M.metal,-4.58,y+1.5,2.72,world,8);
+    box(0.62,0.85,0.06,M.metal,4.55,y+1.15,2.86);
+    cyl(0.07,0.09,0.09,M.metal,0,y+2.93,0,world,10); const bulb=sph(0.105,M.lampOn,0,y+2.8,0); bulb.castShadow=false;
+    radiator(-3.6,y,-2.78);
+    for(let pi=0;pi<3;pi++){ const pp=box(0.24,0.3,0.012,M.paper,-1.4+pi*0.3,y+1.75,-2.86); pp.rotation.z=(Math.random()-.5)*0.16; }
+  }
+  // почтовые ящики: щели и таблички
+  for(let r=0;r<3;r++)for(let c=0;c<5;c++){ box(0.4,0.03,0.02,M.dark,-3.4+c*0.62,0.85+r*0.48,-2.73); }
+  // перила лестниц
+  for(let fi=0;fi<=5;fi++){ const yT=fi*3,yB=yT-3;
+    tube([-1.96,yB+1.02,3.15],[-1.96,yT+1.02,8.85],0.035,M.metal);
+    for(let i2=1;i2<7;i2++){ const t=i2/7; tube([-1.96,yB+t*3+0.08,3.15+t*5.7],[-1.96,yB+t*3+0.98,3.15+t*5.7],0.014,M.metal); }
+    tube([1.96,yT+1.02,3.15],[1.96,yT+1.02,10.85],0.035,M.metal);
+  }
+  // подвал: трубы под потолком и вентиль
+  const p1=cyl(0.07,0.07,9,M.metal,10,-0.35,-2,world,12); p1.rotation.z=Math.PI/2;
+  const p2=cyl(0.05,0.05,9,M.metal,10,-0.55,-1.8,world,10); p2.rotation.z=Math.PI/2;
+  const valve=new THREE.Mesh(new THREE.TorusGeometry(0.16,0.03,10,20),M.red); valve.position.set(12.2,-1.7,0.86); world.add(valve);
+  cyl(0.09,0.09,0.06,new THREE.MeshStandardMaterial({color:0xe8e4d2,roughness:0.3}),13.6,-1.2,0.86,world,14).rotation.x=Math.PI/2;
+  // квартира 43: опрокинутый стул
+  const ch=chair(-8,Y,1.2,0.7); ch.rotation.z=1.35; ch.position.y=Y+0.25;
+  // пыль в воздухе
+  const N=420, pos=new Float32Array(N*3);
+  for(let i=0;i<N;i++){ if(i%2){ pos[i*3]=-4+Math.random()*22; pos[i*3+1]=Math.random()*15; pos[i*3+2]=-6+Math.random()*12; } else { pos[i*3]=-4+Math.random()*8; pos[i*3+1]=Math.random()*17; pos[i*3+2]=-2+Math.random()*12; } }
+  const dg=new THREE.BufferGeometry(); dg.setAttribute('position',new THREE.BufferAttribute(pos,3));
+  dustPoints=new THREE.Points(dg,new THREE.PointsMaterial({color:0xffe6b8,size:0.02,transparent:true,opacity:0.4,depthWrite:false}));
+  scene.add(dustPoints);
+})();
+
+
 // сущности
-function makeFigure(dress=false){ const g=new THREE.Group();
-  if(dress){ const d=new THREE.Mesh(new THREE.CylinderGeometry(0.16,0.42,1.35,8),M.dress); d.position.y=0.68; g.add(d);
-    const aL=new THREE.Mesh(new THREE.CylinderGeometry(0.045,0.04,0.95,6),M.pale); aL.position.set(-0.3,0.95,0); aL.rotation.z=0.12; g.add(aL);
-    const aR=aL.clone(); aR.position.x=0.3; aR.rotation.z=-0.12; g.add(aR);
-  } else { const b=new THREE.Mesh(new THREE.CylinderGeometry(0.19,0.3,1.5,8),M.coat); b.position.y=0.85; g.add(b);
-    const lL=new THREE.Mesh(new THREE.CylinderGeometry(0.07,0.06,0.8,6),M.dark); lL.position.set(-0.13,0.4,0); g.add(lL); const lR=lL.clone(); lR.position.x=0.13; g.add(lR); }
-  const head=new THREE.Mesh(new THREE.SphereGeometry(0.17,8,7),M.pale); head.position.y=1.66; head.scale.y=1.25; g.add(head);
-  const hair=new THREE.Mesh(new THREE.SphereGeometry(0.175,8,6,0,Math.PI*2,0,1.4),M.dark); hair.position.y=1.70; g.add(hair);
+function makeFigure(dress=false,coatColor=null){
+  const g=new THREE.Group();
+  const coatMat=coatColor!==null?new THREE.MeshStandardMaterial({color:coatColor,roughness:0.88}):M.coat;
+  const skin=new THREE.MeshStandardMaterial({color:0xc9b096,roughness:0.6});
+  const hairM=new THREE.MeshStandardMaterial({color:dress?0x6e6258:0x191919,roughness:0.95});
+  function part(geo,mat,x,y,z,parent=g){ const m=new THREE.Mesh(geo,mat); m.position.set(x,y,z); m.castShadow=true; m.receiveShadow=true; parent.add(m); return m; }
+  if(dress){
+    // платье — силуэт через LatheGeometry
+    const pts=[]; [[0.02,0],[0.34,0.02],[0.38,0.18],[0.26,0.6],[0.2,0.95],[0.21,1.15],[0.16,1.32],[0.05,1.38]].forEach(p=>pts.push(new THREE.Vector2(p[0],p[1])));
+    part(new THREE.LatheGeometry(pts,18),M.dress,0,0,0);
+    part(new THREE.SphereGeometry(0.155,14,10),M.dress,0,1.38,0).scale.set(1.25,0.55,0.9); // плечи
+    // длинные руки: плечо+предплечье капсулами, кисти
+    for(const side of [-1,1]){ const a=part(new THREE.CapsuleGeometry(0.042,0.34,4,10),skin,side*0.24,1.08,0); a.rotation.z=side*0.1;
+      const f=part(new THREE.CapsuleGeometry(0.036,0.32,4,10),skin,side*0.28,0.62,0.01); f.rotation.z=side*0.06;
+      const hand=part(new THREE.SphereGeometry(0.05,10,8),skin,side*0.29,0.36,0.02); hand.scale.set(0.75,1.5,0.4);
+      for(let fi2=0;fi2<3;fi2++){ const fg=part(new THREE.CapsuleGeometry(0.008,0.06,3,6),skin,side*0.29+(fi2-1)*0.02,0.27,0.03); } }
+    part(new THREE.CylinderGeometry(0.05,0.065,0.5,10),skin,-0.1,0.06,0).position.y=-0.1; // ноги под платьем едва видны
+    const legL=part(new THREE.CapsuleGeometry(0.045,0.3,4,8),skin,-0.1,0.16,0); const legR=part(new THREE.CapsuleGeometry(0.045,0.3,4,8),skin,0.1,0.16,0);
+    part(new THREE.BoxGeometry(0.09,0.04,0.2),M.dark,-0.1,0.02,0.04); part(new THREE.BoxGeometry(0.09,0.04,0.2),M.dark,0.1,0.02,0.04);
+  } else {
+    // пальто — LatheGeometry: подол шире, талия уже
+    const pts=[]; [[0.02,0.55],[0.24,0.56],[0.27,0.8],[0.2,1.15],[0.19,1.4],[0.24,1.52],[0.05,1.56]].forEach(p=>pts.push(new THREE.Vector2(p[0],p[1])));
+    part(new THREE.LatheGeometry(pts,18),coatMat,0,0,0);
+    part(new THREE.SphereGeometry(0.16,14,10),coatMat,0,1.5,0).scale.set(1.35,0.55,0.95); // плечи
+    part(new THREE.CylinderGeometry(0.19,0.21,0.12,14),coatMat,0,1.56,0); // воротник
+    for(const side of [-1,1]){ const a=part(new THREE.CapsuleGeometry(0.05,0.36,4,10),coatMat,side*0.27,1.24,0); a.rotation.z=side*0.08;
+      const f=part(new THREE.CapsuleGeometry(0.042,0.32,4,10),coatMat,side*0.3,0.82,0.01); f.rotation.z=side*0.05;
+      part(new THREE.SphereGeometry(0.048,10,8),skin,side*0.31,0.55,0.02).scale.set(0.8,1.3,0.45); }
+    for(const side of [-1,1]){ part(new THREE.CapsuleGeometry(0.062,0.4,4,10),new THREE.MeshStandardMaterial({color:0x101114,roughness:0.9}),side*0.11,0.32,0);
+      part(new THREE.BoxGeometry(0.11,0.05,0.24),M.dark,side*0.11,0.025,0.05); }
+    // пуговицы
+    for(let bi=0;bi<3;bi++) part(new THREE.SphereGeometry(0.016,8,8),M.metal,0,1.32-bi*0.22,0.195);
+  }
+  // голова на шарнире (для наклона Хозяйки)
+  const headPivot=new THREE.Group(); headPivot.position.y=1.56; g.add(headPivot);
+  const head=part(new THREE.SphereGeometry(0.145,20,16),skin,0,0.13,0,headPivot); head.scale.set(0.88,1.12,0.95);
+  const hair=part(new THREE.SphereGeometry(0.15,20,14,0,Math.PI*2,0,1.65),hairM,0,0.155,-0.012,headPivot); hair.scale.set(0.92,1.05,0.98);
+  if(dress){ const bun=part(new THREE.SphereGeometry(0.07,12,10),hairM,0,0.26,-0.1,headPivot); }
+  // лицо: впалые глаза, нос, рот
+  for(const side of [-1,1]){ const eye=part(new THREE.SphereGeometry(0.02,10,8),new THREE.MeshBasicMaterial({color:0x060606}),side*0.052,0.15,0.125,headPivot); eye.scale.set(1,1.35,0.5); }
+  const nose=part(new THREE.ConeGeometry(0.018,0.05,8),skin,0,0.095,0.135,headPivot); nose.rotation.x=Math.PI/2-0.25;
+  part(new THREE.BoxGeometry(0.05,0.008,0.01),new THREE.MeshStandardMaterial({color:0x4a3428,roughness:0.8}),0,0.045,0.132,headPivot);
+  part(new THREE.CylinderGeometry(0.055,0.065,0.09,12),skin,0,0.0,0,headPivot); // шея
+  g.userData.headPivot=headPivot;
   g.visible=false; scene.add(g); return g; }
 const standing=makeFigure(false); standing.scale.set(1.15,1.18,1.15);
-const hostess=makeFigure(true); hostess.children[3].rotation.z=0.65; hostess.children[3].position.x=0.14; // голова набок
-const doppel=makeFigure(false); doppel.children.forEach(c=>{ if(c.material===M.coat)c.material=new THREE.MeshLambertMaterial({color:0x3a4a5a}); });
+const hostess=makeFigure(true); hostess.userData.headPivot.rotation.z=0.62; hostess.userData.headPivot.position.x=0.1; // голова набок — сильнее, чем может живой человек
+const doppel=makeFigure(false,0x39505f);
 const cameraGhost=makeFigure(true); cameraGhost.visible=false;
 // тапочки будут двигаться
 let slipperStep=0;
@@ -522,7 +736,8 @@ function animate(){ requestAnimationFrame(animate); const now=performance.now();
     for(const it of interactables){ if(it.when&&!it.when())continue; const p=new THREE.Vector3(it.pos[0],it.pos[1]+1,it.pos[2]); const d=p.distanceTo(player.pos); if(d<it.r&&d<best){ const look=new THREE.Vector3(); camera.getWorldDirection(look); if(look.dot(p.clone().sub(camera.position).normalize())>0.25||d<1.2){ best=d; currentInteract=it; } } }
     if(currentInteract&&!dialogOpen){ interactEl.textContent=typeof currentInteract.label==='function'?currentInteract.label():currentInteract.label; interactEl.classList.remove('hidden'); } else interactEl.classList.add('hidden');
   }
-  renderer.render(scene,camera);
+  if(dustPoints){ dustPoints.rotation.y+=dt*0.004; }
+  composer.render();
 }
 // отладочный доступ (для автоскриншотов/демо)
 window.__fifth={ S, player, scene, camera, setStage, setDay, activateStanding, startKnock, teleport, standingPos, standing, hostess, doppel, sixthGroup, setSanity, door47, nightStart, subtitle };

diff --git a/README.md b/README.md
@@ -47,7 +47,10 @@ npm run preview
   файлов не нужно), русская озвучка стуков через SpeechSynthesis, если браузер умеет
 - 4 концовки: «Уехал», «Старший по подъезду», «Шестой этаж» и секретный «Снос»
   (нужны все рисунки Ани и ни одной открытой чужой двери / нарушения глазка)
-- PS1-стилистика: рендер в низком разрешении, VHS-шум, сканлайны, дата в углу кадра
+- PS1-настроение, современная картинка: рендер 720p, мягкие тени от фонаря, ACES-тонемаппинг,
+  bloom и плёночный шум (three.js post-processing), PBR-текстуры 512px с потёками, трещинами
+  и облупившейся краской, детальные модели мебели и персонажей, пыль в луче фонаря.
+  В углу кадра по-прежнему дата VHS-камеры.
 
 ## Управление
 
